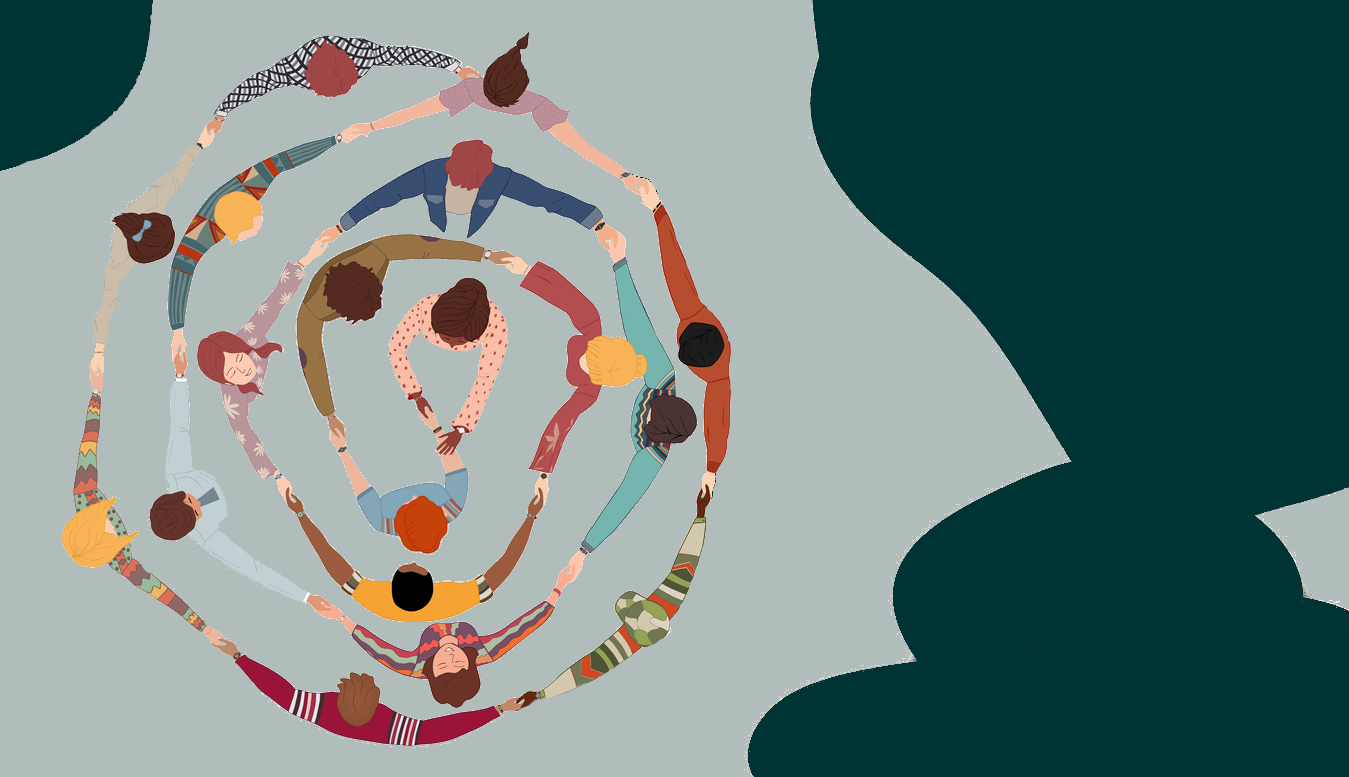
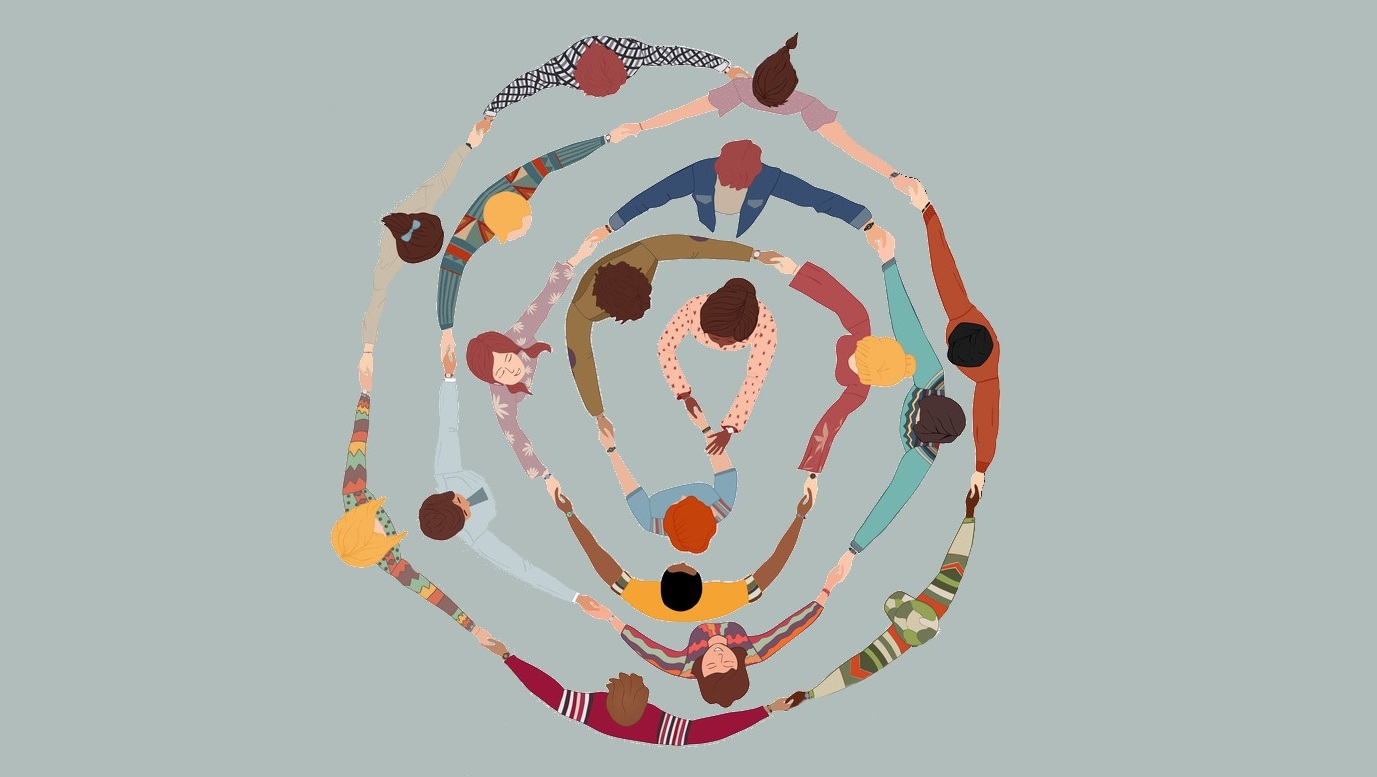
About us complete, styling changes

diff --git a/src/components/AboutUs.js b/src/components/AboutUs.js
@@ -1,0 +1,68 @@
+import React from "react";
+import aboutUsImg from "../about-us.jpg";
+
+const AboutUs = () => {
+  return (
+    <div className="about-us-wrapper container py-5">
+      <div className="row">
+        <div className="col-lg-6 col-xm-12">
+          <div className="about-us-heading">
+            <h1>About Us</h1>
+          </div>
+          <div className="about-us-text">
+            <p>
+              At Gentle Support, we are dedicated to empowering individuals with
+              Developmental Disabilities and Acquired Brain Disorders to lead
+              fulfilling, independent lives. Through personalized services, we
+              focus on fostering growth, inclusion, and meaningful community
+              connections.
+            </p>
+            <p>
+              Our person-centered approach ensures that every individual’s
+              unique needs, interests, and goals guide the support we provide.
+              Whether through skill development, community participation, or
+              tailored care plans, we strive to create opportunities that
+              enhance independence and quality of life.
+            </p>
+            <p>
+              With a commitment to compassion, professionalism, and compliance
+              with state standards, Gentle Support is your trusted partner in
+              building brighter, more inclusive futures.
+            </p>
+          </div>
+        </div>
+        <div className="photo-wrap col-lg-6 col-xm-12">
+          <img className="about-us-img" src={aboutUsImg} alt="about us" />
+        </div>
+      </div>
+    </div>
+  );
+};
+
+export default AboutUs;
+
+/*
+<div className="header-text">
+        <h1>supporting growth, independence and inclusion</h1>
+        <h1>About Us</h1>
+          <p>
+            At Gentle Support, we are dedicated to empowering individuals with
+            Developmental Disabilities and Acquired Brain Disorders to lead
+            fulfilling, independent lives. Through personalized services, we
+            focus on fostering growth, inclusion, and meaningful community
+            connections.
+          </p>
+          <p>
+            Our person-centered approach ensures that every individual’s unique
+            needs, interests, and goals guide the support we provide. Whether
+            through skill development, community participation, or tailored care
+            plans, we strive to create opportunities that enhance independence
+            and quality of life.
+          </p>
+          <p>
+            With a commitment to compassion, professionalism, and compliance
+            with state standards, Gentle Support is your trusted partner in
+            building brighter, more inclusive futures.
+          </p>
+      </div>
+*/

diff --git a/src/App.css b/src/App.css
@@ -7,10 +7,9 @@
   --secondary-color: #003333;
 }
 
-/* BODY */
-body {
-  font-family: "Roboto Condensed" sans-serif;
-  
+* {
+  font-family: 'Roboto Condensed', sans-serif;
+  background-color: var(--primary-color);
 }
 
 /* NAV BAR */
@@ -18,7 +17,13 @@ body {
   background-color: var(--primary-color);
   padding: 0em;
   border-bottom: 0.19rem solid var(--secondary-color);
-  /* padding-bottom: 2em; */
+  display: flex;
+  justify-content: center;
+}
+
+.nav-content {
+  display: flex;
+  justify-content: center;
 }
 
 .logo {
@@ -44,10 +49,11 @@ body {
   margin-right: 1rem;
   color: var(--primary-text);
   border-top: 0.19rem solid var(--primary-color);
+  font-size: 1.25em;
  }
 
  .navbar-brand {
-  max-width: 20rem;
+  max-width: 30rem;
   padding: 0 !important;
   height: 6rem !important;
  }
@@ -57,7 +63,7 @@ body {
   font-weight: 500;
   font-style: normal;
   color: var(--secondary-color);
-  font-size: 3rem;
+  font-size: 2.15rem;
   letter-spacing: 0.1em;
   vertical-align: middle;
   padding-left: 1em;
@@ -76,14 +82,13 @@ body {
  /* HEADER */
 
  .image-banner {
-  position:relative;
-  background: url(hands-circle.jpg) no-repeat;
-  background-size:auto;
-  background-position: center;
-  height: 90vh;
-  background-color: #B1BDBB;
-  padding-top: 1em;
-  min-width: 50%;
+  display: flex;
+  justify-content: center;
+  width: auto;
+ }
+
+ .image-banner img {
+  width: 70%;
  }
 
  .header-text {
@@ -93,20 +98,52 @@ body {
   align-items: center;
   text-align: center;
   font-family: "Roboto Condensed", sans-serif;
-  background-color: #B1BDBB;
  }
 
+ .header-wrapper{
+  background-color: var(--primary-color);
+ }
  .header-wrapper h1{
   color: var(--secondary-color);
   text-transform: uppercase;
-  background-color: var(--primary-color);
   letter-spacing: 0.07em;
   padding-top: 0.1em;
   font-size: 2em;
- }
+  background-color: var(--primary-color);
+}
 
- .typed-text {
+.typed-text {
   font-size: 1.5em;
   letter-spacing: 0.07em;
   font-weight: 500;
- }
+}
+
+/* ABOUT US */
+.about-us-wrapper {
+display: flex;
+justify-content: center;
+/* border: 5px solid #003333; */
+}
+
+.photo-wrap {
+  display: flex;
+  justify-content: center;
+  align-items: center;
+}
+.about-us-img {
+  width: 100%;
+  border-radius: 50%;
+  padding: .3em;
+  border: 40px groove var(--secondary-color);
+}
+
+.about-us-heading {
+  text-transform: uppercase;
+  color: var(--secondary-color);
+  text-align: center;
+}
+
+.about-us-text {
+  font-size: 1.4em;
+  text-align: left;
+}

diff --git a/src/components/Navbar.js b/src/components/Navbar.js
@@ -1,6 +1,6 @@
 /* eslint-disable jsx-a11y/anchor-is-valid */
 import React from "react";
-import logo from "../logo2.png";
+import logo from "../logo.png";
 // REACT FONT AWESOME IMPORTS
 import { FontAwesomeIcon } from "@fortawesome/react-fontawesome";
 import { faBars } from "@fortawesome/free-solid-svg-icons";
@@ -8,7 +8,7 @@ import { faBars } from "@fortawesome/free-solid-svg-icons";
 const Navbar = () => {
   return (
     <nav className="navbar navbar-expand-lg navbar-light">
-      <div className="container">
+      <div className="nav-content container">
         <a className="navbar-brand" href="#">
           <img className="logo" src={logo} alt="logo"></img>
           <span className="brandName">Gentle Support</span>

diff --git a/src/components/Header.js b/src/components/Header.js
@@ -1,5 +1,6 @@
 import React from "react";
 import { ReactTyped } from "react-typed";
+import headerImg from "../hands-circle.jpg";
 
 const Header = () => {
   return (
@@ -18,7 +19,9 @@ const Header = () => {
           typeSpeed={40}
         />
       </div>
-      <div className="image-banner"></div>
+      <div className="image-banner">
+        <img src={headerImg} alt="circle" />
+      </div>
     </div>
   );
 };

diff --git a/src/App.js b/src/App.js
@@ -2,12 +2,14 @@ import "./App.css";
 import "bootstrap/dist/css/bootstrap.min.css";
 import Navbar from "./components/Navbar";
 import Header from "./components/Header";
+import AboutUs from "./components/AboutUs";
 
 function App() {
   return (
     <>
       <Navbar />
       <Header />
+      <AboutUs />
     </>
   );
 }
